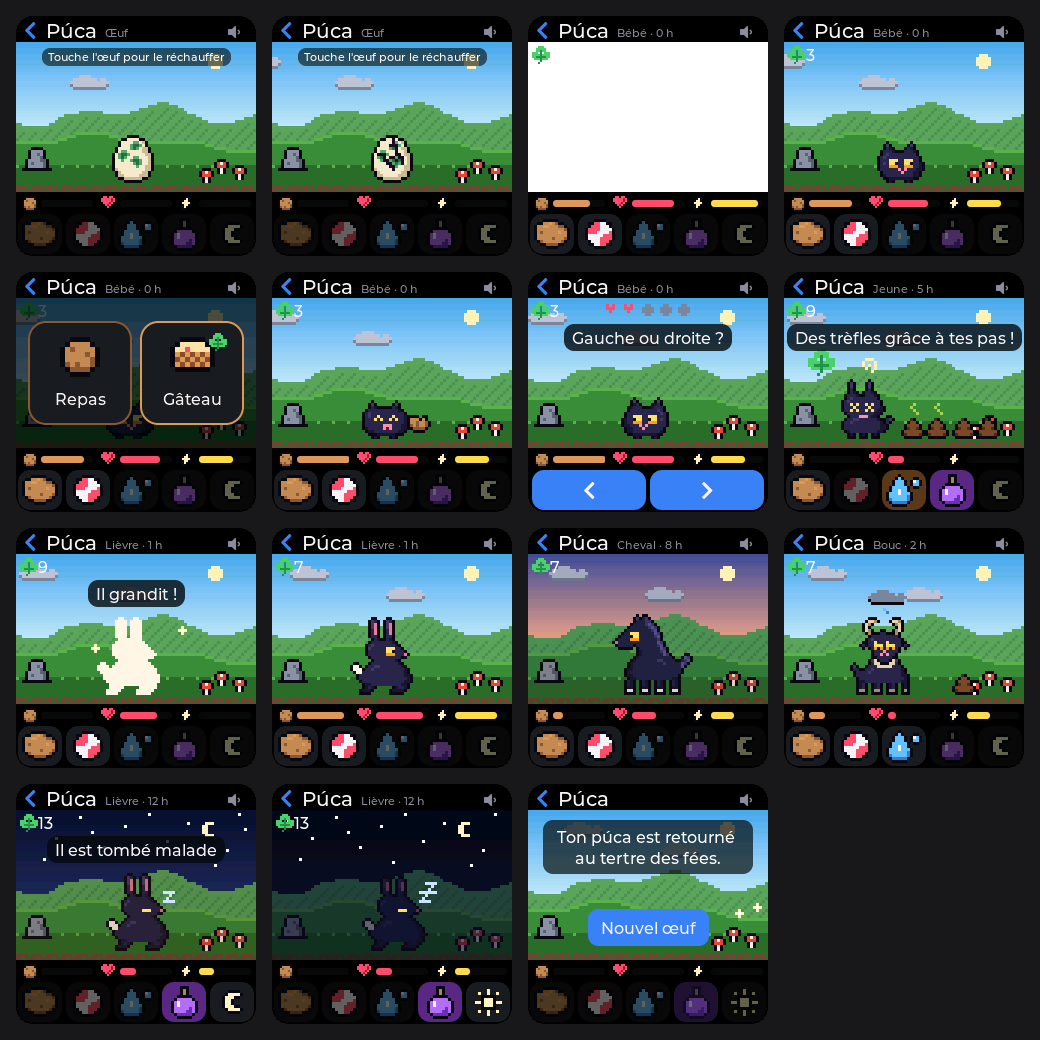
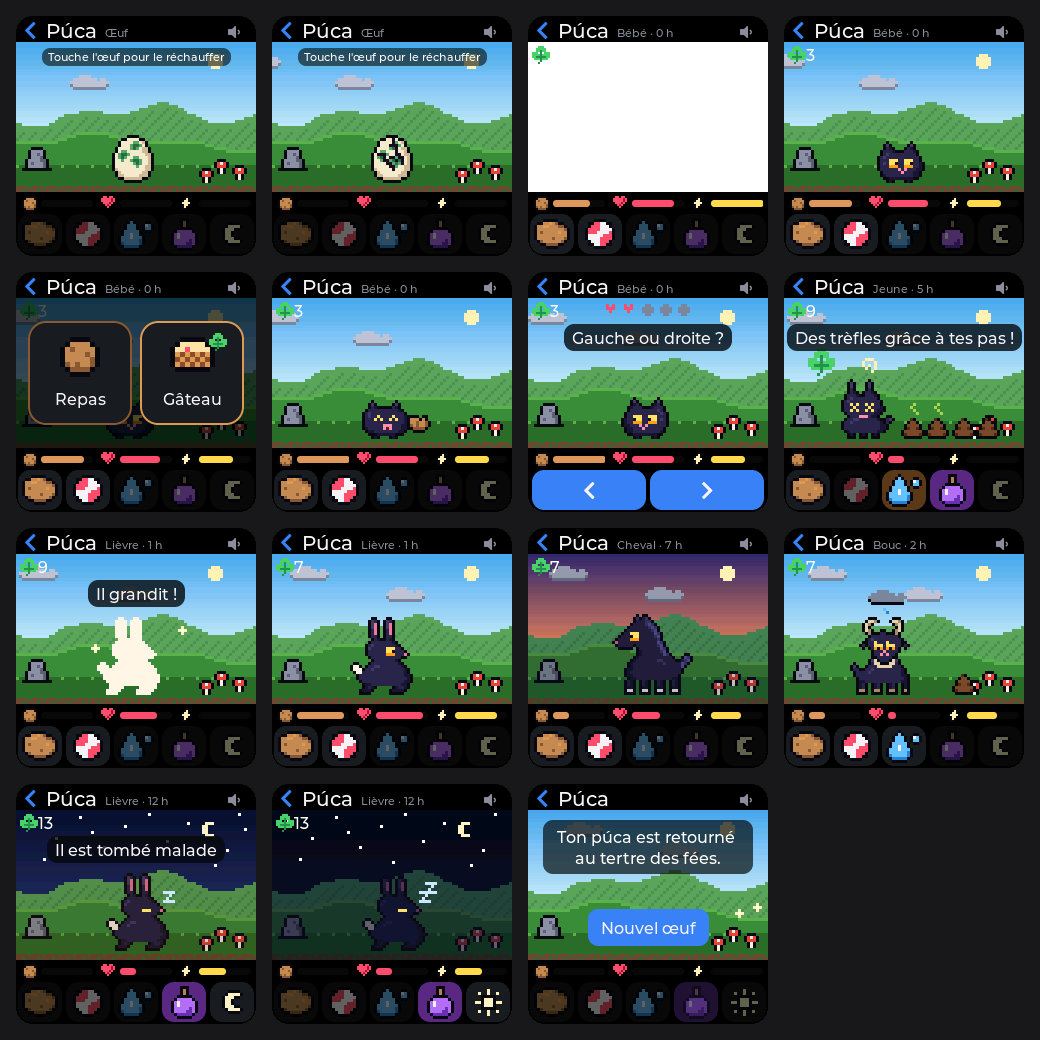
0.29.2 : Púca — ciel calé sur les vrais lever et coucher du soleil
Claude-Session: https://claude.ai/code/session_01Nqsr6dMwaT8y4hmR3wyTbr

Changed region(s): [[0.4923, 0.5231, 0.7385, 0.6154], [0.6769, 0.6462, 0.7077, 0.6769]]

diff --git a/main/app_puca.c b/main/app_puca.c
@@ -192,18 +192,28 @@ static void draw_puca(const puca_body_t *b, int frame, const puca_spr_t *eye, co
 #undef FX
 }
 
-/* ciel : couleurs (haut, bas) et luminosité de la scène selon l'heure */
+/* ciel : couleurs (haut, bas) et luminosité de la scène selon l'heure,
+ * calées sur les vrais lever et coucher du soleil du jour */
 typedef struct { float h; uint32_t top, bot; float lum; } skykey_t;
-static const skykey_t SKY[] = {
-    { 0.0f,  0x0b1030, 0x232a5c, 0.50f },
-    { 5.5f,  0x0b1030, 0x232a5c, 0.50f },
-    { 7.0f,  0x5a4fb0, 0xffb38a, 0.80f },
-    { 9.0f,  0x4aa8ec, 0xc8ecfa, 1.00f },
-    { 17.5f, 0x4aa8ec, 0xc8ecfa, 1.00f },
-    { 19.5f, 0x41307a, 0xff8f5e, 0.80f },
-    { 21.0f, 0x0b1030, 0x232a5c, 0.50f },
-    { 24.0f, 0x0b1030, 0x232a5c, 0.50f },
-};
+#define SK_NIGHT 0x0b1030, 0x232a5c, 0.50f
+#define SK_DAWN  0x5a4fb0, 0xffb38a, 0.80f
+#define SK_DAY   0x4aa8ec, 0xc8ecfa, 1.00f
+#define SK_DUSK  0x41307a, 0xff8f5e, 0.80f
+static skykey_t SKY[8];
+static int s_sky_day = -1;
+
+static void sky_keys(const struct tm *t)
+{
+    if (t->tm_yday == s_sky_day) return;
+    s_sky_day = t->tm_yday;
+    float rise, set;
+    puca_sun(t->tm_yday, tz(), &rise, &set);
+    const skykey_t k[8] = {
+        { 0.0f, SK_NIGHT }, { rise - 1.0f, SK_NIGHT }, { rise, SK_DAWN }, { rise + 1.3f, SK_DAY },
+        { set - 1.0f, SK_DAY }, { set, SK_DUSK }, { set + 1.1f, SK_NIGHT }, { 24.0f, SK_NIGHT },
+    };
+    memcpy(SKY, k, sizeof SKY);
+}
 
 static uint32_t mix(uint32_t a, uint32_t b, float t)
 {
@@ -217,9 +227,10 @@ static uint16_t to565(uint32_t c) { return lv_color_to_u16(lv_color_hex(c)); }
 
 static float day_hour(void)
 {
-    if (!wclock_time_valid()) return 12;
     struct tm t;
+    if (!wclock_time_valid()) { memset(&t, 0, sizeof t); t.tm_yday = 172; sky_keys(&t); return 12; }
     wclock_local_tm(&t);
+    sky_keys(&t);
     return (float)t.tm_hour + t.tm_min / 60.0f;
 }
 

diff --git a/main/puca_model.c b/main/puca_model.c
@@ -1,5 +1,6 @@
 /* puca_model.c — voir puca_model.h */
 #include "puca_model.h"
+#include <math.h>
 #include <string.h>
 
 #define TICK      300                     /* s */
@@ -220,3 +221,19 @@ puca_res_t puca_heal(puca_t *p)
 }
 
 void puca_light(puca_t *p) { p->light_off = !p->light_off; }
+
+void puca_sun(int yday, int32_t tz_min, float *rise, float *set)
+{
+    const float lat = 46.5f * (float)M_PI / 180, lon = 2.5f;
+    int n = yday + 1;
+    float decl = 23.44f * (float)M_PI / 180 * sinf(2 * (float)M_PI * (284 + n) / 365.0f);
+    float b = 2 * (float)M_PI * (n - 81) / 364.0f;
+    float eot = 9.87f * sinf(2 * b) - 7.53f * cosf(b) - 1.5f * sinf(b);         /* minutes */
+    float c = (sinf(-0.833f * (float)M_PI / 180) - sinf(lat) * sinf(decl)) / (cosf(lat) * cosf(decl));
+    if (c > 1) c = 1;
+    if (c < -1) c = -1;
+    float half = acosf(c) * 180 / (float)M_PI / 15.0f;                          /* heures */
+    float noon = 12.0f - lon / 15.0f - eot / 60.0f + tz_min / 60.0f;
+    *rise = noon - half;
+    *set = noon + half;
+}

diff --git a/host_tests/test_puca.c b/host_tests/test_puca.c
@@ -94,6 +94,14 @@ int main(void)
     puca_update(&r, at(1, 0), TZ, 0, 1);
     puca_update(&r, at(400, 12), TZ, 0, 400);
     assert(r.stage == PS_GONE);
+    /* soleil : 17 novembre (heure d'hiver) et 21 juin (heure d'été) au centre de la France */
+    float sr, st;
+    puca_sun(320, 60, &sr, &st);
+    printf("17/11 : lever %.2f h, coucher %.2f h\n", sr, st);
+    assert(sr > 7.8f && sr < 8.4f && st > 16.9f && st < 17.4f);
+    puca_sun(171, 120, &sr, &st);
+    printf("21/06 : lever %.2f h, coucher %.2f h\n", sr, st);
+    assert(sr > 5.7f && sr < 6.2f && st > 21.6f && st < 22.1f);
     printf("Púca : OK (taille de l'état %u o)\n", (unsigned)sizeof(puca_t));
     return 0;
 }

diff --git a/main/puca_model.h b/main/puca_model.h
@@ -73,3 +73,7 @@ puca_res_t puca_heal(puca_t *p);
 void       puca_light(puca_t *p);
 uint32_t   puca_rand(puca_t *p);
 int        puca_care_pct(const puca_t *p);               /* moyenne des soins, % */
+/* lever et coucher du soleil en heures locales (centre de la France,
+ * 46,5° N 2,5° E) : yday = jour de l'année (0 = 1er janvier), tz en minutes
+ * (heure d'été comprise) ; précision de quelques minutes */
+void       puca_sun(int yday, int32_t tz_min, float *rise, float *set);

diff --git a/docs/en/architecture.md b/docs/en/architecture.md
@@ -107,7 +107,8 @@ libraries (a few registers are enough), native `esp_lcd`, ESP-IDF 5 `i2c_master`
   display it is advanced in 5-minute steps from the last visit (up to 7 days; tested on the
   host), state saved as one 76-byte NVS blob. Steps of the day turn into shamrocks. The view is
   a tiny sprite engine: an 80×50 buffer of palette indices redrawn at 12.5 frames/s while the
-  screen is on (sky from time-of-day keyframes, stars, moon or sun, drifting clouds, hills,
+  screen is on (sky keyframes placed around the day's real sunrise and sunset — `puca_sun()`,
+  computed for central France with the local offset, so winter evenings get dark early — stars, moon or sun, drifting clouds, hills,
   droppings, the pet, particles), then scaled ×3 into a 240×150 RGB565 canvas in PSRAM.
   Expressions are composed: bodies have no face, shared 3×3 eye and mouth glyphs are placed at
   per-body anchors, so every form gets open/blink/happy/sleep/sad/sick faces. Night with the

diff --git a/docs/fr/architecture.md b/docs/fr/architecture.md
@@ -115,7 +115,9 @@ d'ESP-IDF 5.
   affichage il avance par pas de 5 minutes depuis la dernière visite (7 jours au plus ; testé
   sur PC), état gardé en un blob NVS de 76 octets. Les pas du jour deviennent des trèfles. La
   vue est un petit moteur de sprites : un tampon de 80×50 indices de palette redessiné à
-  12,5 images/s écran allumé (ciel par images clés selon l'heure, étoiles, lune ou soleil,
+  12,5 images/s écran allumé (ciel par images clés placées autour des vrais lever et coucher
+  du soleil du jour — `puca_sun()`, calculés pour le centre de la France avec le décalage local,
+  la nuit tombe donc tôt l'hiver — étoiles, lune ou soleil,
   nuages, collines, crottes, l'animal, particules), puis agrandi ×3 dans un canevas RGB565 de
   240×150 en PSRAM. Les expressions sont composées : les corps n'ont pas de visage, des glyphes
   d'yeux et de bouche 3×3 communs sont posés aux ancres de chaque corps, d'où les visages

diff --git a/docs/fr/puca.md b/docs/fr/puca.md
@@ -13,7 +13,7 @@ et soigner. Sa forme adulte dépend de la façon dont tu t'en occupes.
 | Où | Quoi |
 |---|---|
 | En haut | stade et âge (*Bébé · 5 h*, *Cheval · 4 j*), son des effets (toucher le haut-parleur) |
-| Scène | ciel qui suit l'heure (aube, jour, crépuscule, nuit étoilée), le púca qui se promène, ses crottes ; trèfles en haut à gauche |
+| Scène | ciel qui suit l'heure et la saison (aube et crépuscule aux vrais lever et coucher du soleil, nuit étoilée), le púca qui se promène, ses crottes ; trèfles en haut à gauche |
 | Jauges | satiété (pomme de terre), humeur (cœur), énergie (éclair) |
 | Boutons | **nourrir**, **jouer**, **laver**, **soigner**, **lumière** |
 

diff --git a/docs/en/puca.md b/docs/en/puca.md
@@ -13,7 +13,7 @@ adult form depends on how you look after it.
 | Where | What |
 |---|---|
 | Top | stage and age (*Baby · 5 h*, *Horse · 4 d*), sound effects on/off (tap the speaker) |
-| Scene | sky following the time (dawn, day, dusk, starry night), the púca wandering about, its droppings; shamrocks top left |
+| Scene | sky following the time and season (dawn and dusk at the real sunrise and sunset, starry night), the púca wandering about, its droppings; shamrocks top left |
 | Gauges | fullness (potato), mood (heart), energy (bolt) |
 | Buttons | **feed**, **play**, **clean**, **heal**, **light** |
 

diff --git a/CHANGELOG.md b/CHANGELOG.md
@@ -2,6 +2,13 @@
 
 All notable changes. Versions follow `PROJECT_VER` in `CMakeLists.txt`.
 
+## 0.29.2 — 2026-11-17
+
+- Púca: the sky follows the real sunrise and sunset of the day (computed for central France,
+  local time with summer/winter offset) instead of fixed hours: dark by about 17:30 in
+  November, daylight until about 22:00 in June. Dawn and dusk colours sit around those times.
+  The pet still sleeps from 22:00 to 7:00.
+
 ## 0.29.1 — 2026-11-17
 
 - Púca: energy rebalanced — the game tired it far too fast (12 % per game, a dozen games a day
